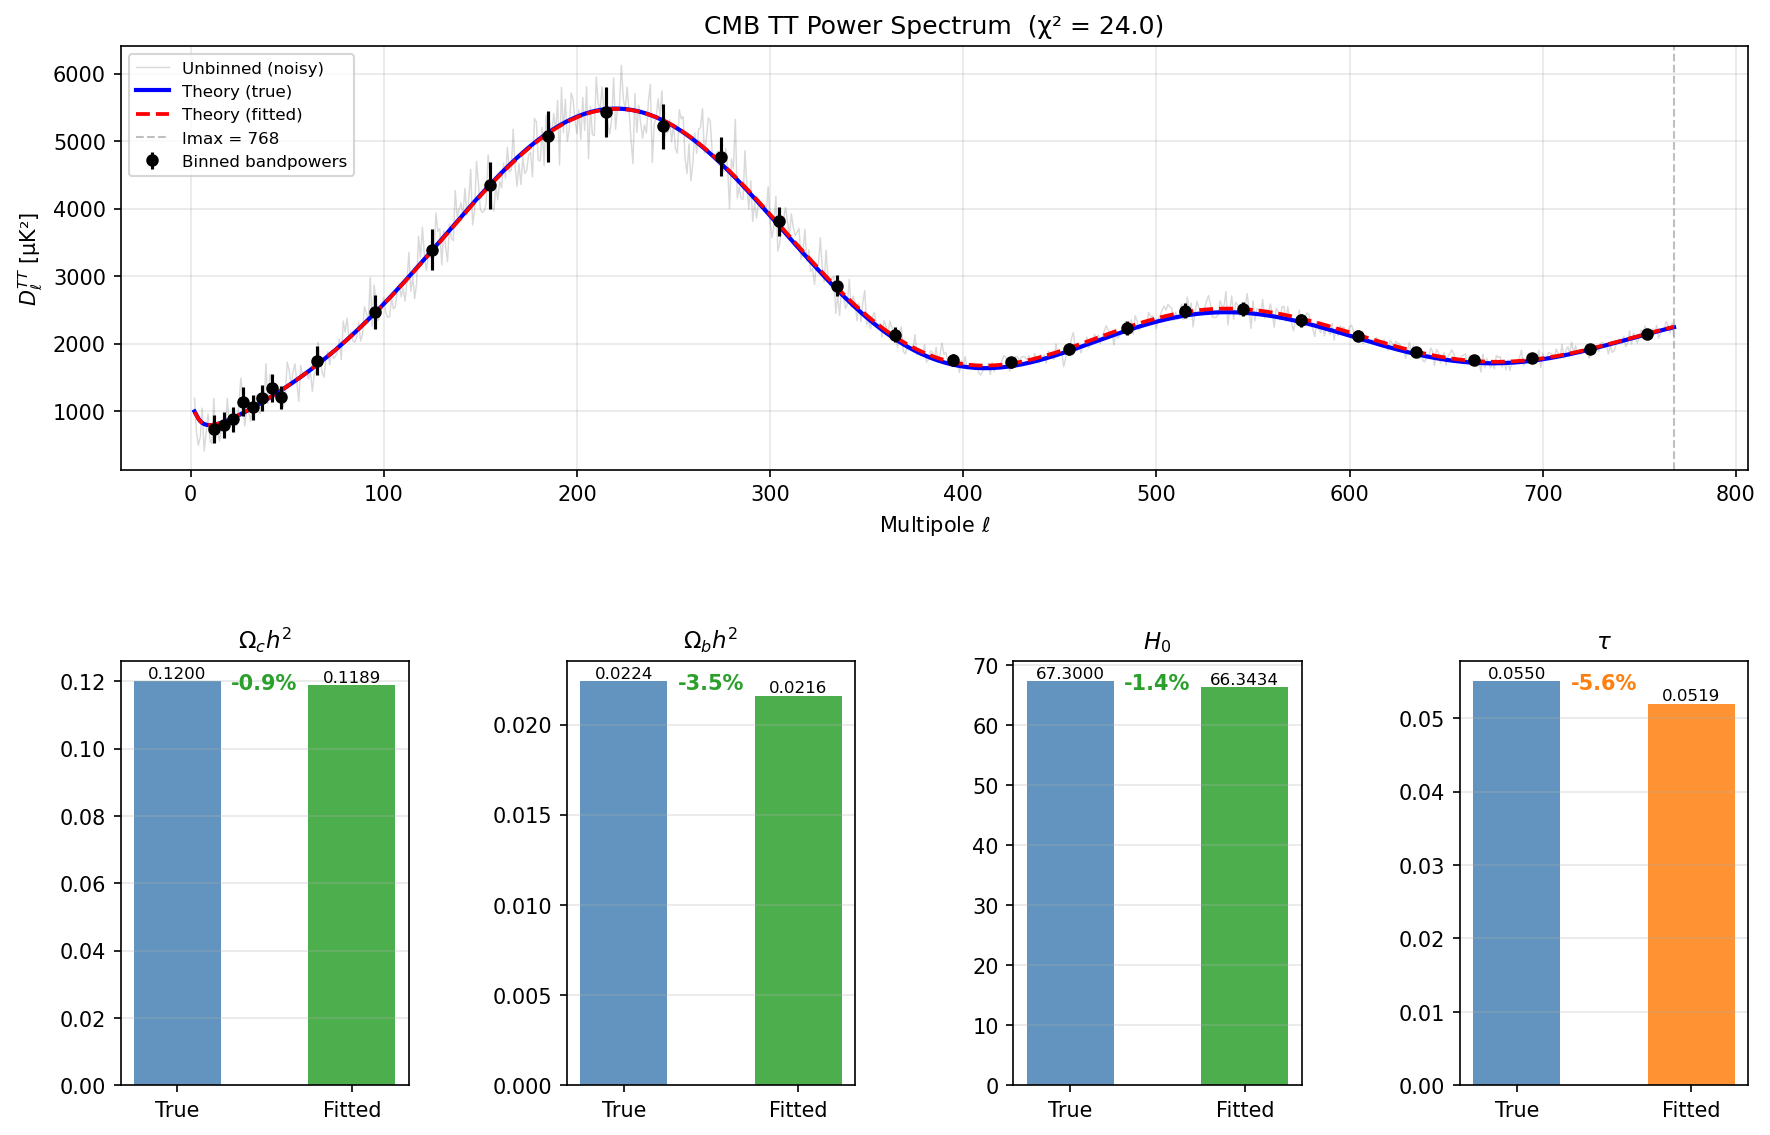
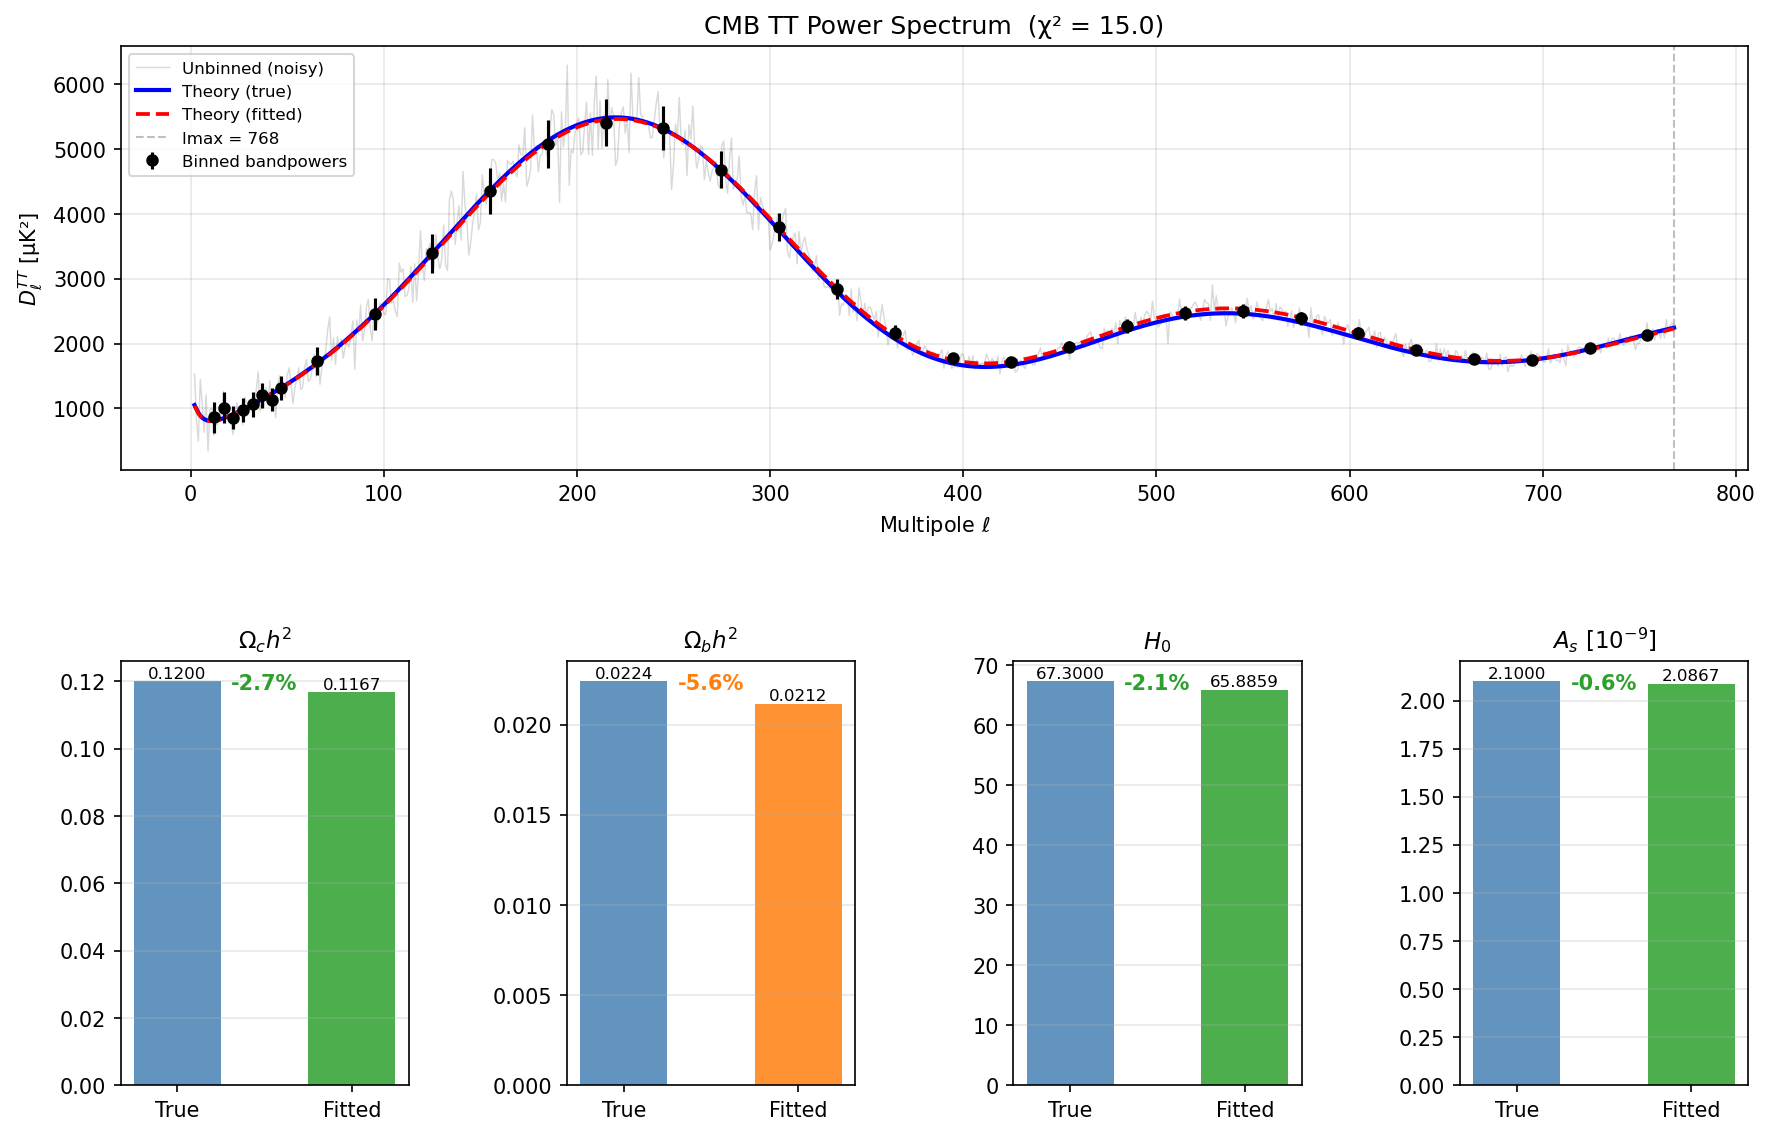
Fit As instead of tau (tau is accessible in EE)

diff --git a/src/Centrale/CMB/cmb_fit.py b/src/Centrale/CMB/cmb_fit.py
@@ -12,6 +12,7 @@ NOISE_UK = 10.0  # white-noise per pixel [µK]
 # lmax = 3×nside is the HEALPix-supported ceiling for TT (spin-0); map2alm iter=3 deconvolves
 # the pixel window reliably in this range. Goes to ell~768: covers peaks 1, 2, and base of 3.
 LMAX_FACTOR = 3  # multiply by nside to get lmax
+TAU_FIXED   = 0.054  # fixed from Planck EE; TT sees only As·e^{-2τ}, so τ is not a TT parameter
 
 # Planck-inspired linear binning (Plik likelihood uses uniform Δell, not log-spaced).
 # Log bins under-sample the acoustic peaks; uniform bins give ~equal modes per bin
@@ -23,12 +24,14 @@ ELL_BREAK = 50  # transition multipole between fine and coarse binning
 
 # ── Helpers ───────────────────────────────────────────────────────────────────
 def camb_spectrum(params, lmax):
-    """Return (ell, C_ell) [µK²] from CAMB."""
+    """Return (ell, C_ell) [µK²] from CAMB.
+
+    Free parameters: omch2, ombh2, H0, As.
+    ns and tau are left at CAMB defaults (ns=0.96, tau~0.054).
+    """
     p = CAMBparams()
-    p.set_cosmology(
-        H0=params["H0"], ombh2=params["ombh2"], omch2=params["omch2"], tau=params["tau"]
-    )
-    p.InitPower.set_params(ns=0.96)
+    p.set_cosmology(H0=params["H0"], ombh2=params["ombh2"], omch2=params["omch2"])
+    p.InitPower.set_params(ns=0.96, As=params.get("As", 2.1e-9))
     p.set_for_lmax(lmax, lens_potential_accuracy=0)
     powers = get_results(p).get_cmb_power_spectra(p, CMB_unit="muK", raw_cl=True)
     cl = powers["total"][: lmax + 1, 0]
@@ -104,16 +107,14 @@ class CMBAnalyzer:
         best_params = posterior medians.
         """
 
-        param_keys = ["omch2", "ombh2", "H0", "tau"]
-        bound_lo = np.array([0.05, 0.010, 50.0, 0.010])
-        bound_hi = np.array([0.30, 0.050, 90.0, 0.200])
+        param_keys = ["omch2", "ombh2", "H0", "As"]
+        bound_lo = np.array([0.05,  0.010, 50.0, 1.5e-9])
+        bound_hi = np.array([0.30,  0.050, 90.0, 3.5e-9])
 
         def log_prior(p):
             if np.any(p < bound_lo) or np.any(p > bound_hi):
                 return -np.inf
-            # Gaussian prior on τ: TT sees only As·e^{-2τ}, so τ must be anchored
-            # by polarization data. We encode the Planck EE constraint τ = 0.054 ± 0.007.
-            return -0.5 * ((p[3] - 0.054) / 0.007) ** 2
+            return 0.0  # flat prior within bounds
 
         def log_likelihood(p):
             try:
@@ -131,8 +132,8 @@ class CMBAnalyzer:
 
         # Initialise walkers as a tight ball around Planck-like fiducial values.
         rng = np.random.default_rng(42)
-        p0_center = np.array([0.12, 0.022, 67.3, 0.054])
-        p0_sigma = np.array([0.01, 0.002, 2.0, 0.005])
+        p0_center = np.array([0.12,  0.022, 67.3, 2.1e-9])
+        p0_sigma  = np.array([0.01,  0.002,  2.0, 0.1e-9])
         p0 = p0_center + p0_sigma * rng.standard_normal((n_walkers, 4))
 
         sampler = emcee.EnsembleSampler(n_walkers, 4, log_posterior)
@@ -157,15 +158,19 @@ class CMBAnalyzer:
     def plot_walkers(self, sampler, params_true, n_burn):
         """Plot MCMC walker chains for each parameter."""
         chain = sampler.get_chain()  # (n_steps, n_walkers, n_params)
-        labels = [r"$\Omega_c h^2$", r"$\Omega_b h^2$", r"$H_0$", r"$\tau$"]
-        truths = [params_true["omch2"], params_true["ombh2"], params_true["H0"], params_true["tau"]]
+        # As is displayed as ln(10^10 As) — the standard cosmology convention (~3.04)
+        chain_plot       = chain.copy()
+        chain_plot[:, :, 3] = np.log(chain_plot[:, :, 3] * 1e10)
+        labels = [r"$\Omega_c h^2$", r"$\Omega_b h^2$", r"$H_0$", r"$\ln(10^{10}A_s)$"]
+        truths = [params_true["omch2"], params_true["ombh2"], params_true["H0"],
+                  np.log(params_true["As"] * 1e10)]
         n_steps, n_walkers, _ = chain.shape
 
         fig, axes = plt.subplots(4, 1, figsize=(10, 8), sharex=True)
         for i, (ax, label, truth) in enumerate(zip(axes, labels, truths)):
-            ax.plot(chain[:, :, i], "k-", alpha=0.08, linewidth=0.7)
+            ax.plot(chain_plot[:, :, i], "k-", alpha=0.08, linewidth=0.7)
             ax.plot(
-                np.median(chain[:, :, i], axis=1),
+                np.median(chain_plot[:, :, i], axis=1),
                 "tab:blue",
                 linewidth=1.5,
                 label="Median" if i == 0 else "",
@@ -200,11 +205,15 @@ class CMBAnalyzer:
             subprocess.check_call(["pip", "install", "corner"])
             import corner
 
-        labels = [r"$\Omega_c h^2$", r"$\Omega_b h^2$", r"$H_0$", r"$\tau$"]
-        truths = [params_true["omch2"], params_true["ombh2"], params_true["H0"], params_true["tau"]]
+        # Transform As → ln(10^10 As) for readable axis values
+        samples_plot    = flat_samples.copy()
+        samples_plot[:, 3] = np.log(samples_plot[:, 3] * 1e10)
+        labels = [r"$\Omega_c h^2$", r"$\Omega_b h^2$", r"$H_0$", r"$\ln(10^{10}A_s)$"]
+        truths = [params_true["omch2"], params_true["ombh2"], params_true["H0"],
+                  np.log(params_true["As"] * 1e10)]
 
         fig = corner.corner(
-            flat_samples,
+            samples_plot,
             labels=labels,
             truths=truths,
             quantiles=[0.16, 0.5, 0.84],
@@ -268,13 +277,15 @@ class CMBAnalyzer:
         # ── Parameter recovery ────────────────────────────────────────────────
         for col, (key, label) in enumerate(
             zip(
-                ["omch2", "ombh2", "H0", "tau"],
-                [r"$\Omega_c h^2$", r"$\Omega_b h^2$", r"$H_0$", r"$\tau$"],
+                ["omch2",          "ombh2",          "H0",   "As"],
+                [r"$\Omega_c h^2$", r"$\Omega_b h^2$", r"$H_0$", r"$A_s\ [10^{-9}]$"],
             )
         ):
             ax = fig.add_subplot(gs[1, col])
-            t = params_true[key]
-            f = params_fit[key]
+            # Display As in units of 10^-9 for readability
+            scale = 1e9 if key == "As" else 1.0
+            t = params_true[key] * scale
+            f = params_fit[key]  * scale
             err = 100 * (f - t) / t
             clr = "tab:green" if abs(err) < 5 else "tab:orange" if abs(err) < 20 else "tab:red"
             ax.bar(["True", "Fitted"], [t, f], color=["steelblue", clr], alpha=0.85, width=0.5)
@@ -306,7 +317,7 @@ def main():
     print("CMB Power Spectrum Analysis")
     print("=" * 60)
 
-    params_true = {"omch2": 0.120, "ombh2": 0.0224, "H0": 67.3, "tau": 0.055}
+    params_true = {"omch2": 0.120, "ombh2": 0.0224, "H0": 67.3, "As": 2.1e-9}
     analyzer = CMBAnalyzer(nside=NSIDE, noise_uk=NOISE_UK)
 
     n_bins_eff = len(analyzer.bin_edges) - 1
@@ -329,8 +340,13 @@ def main():
     print("\n" + "=" * 60 + "\nRESULTS (posterior medians)\n" + "=" * 60)
     print(f"\n{'Parameter':<15} {'True':<12} {'Fitted':<12} {'Error %'}")
     print("-" * 55)
-    for key, name in [("omch2", "Ωc h²"), ("ombh2", "Ωb h²"), ("H0", "H₀"), ("tau", "τ")]:
-        t, f = params_true[key], params_fit[key]
+    for key, name, scale in [
+        ("omch2", "Ωc h²",    1),
+        ("ombh2", "Ωb h²",    1),
+        ("H0",    "H₀",       1),
+        ("As",    "As [1e-9]", 1e9),
+    ]:
+        t, f = params_true[key] * scale, params_fit[key] * scale
         print(f"{name:<15} {t:<12.5f} {f:<12.5f} {100 * abs(f - t) / t:.2f}%")
     print("\n" + "=" * 60)
 
